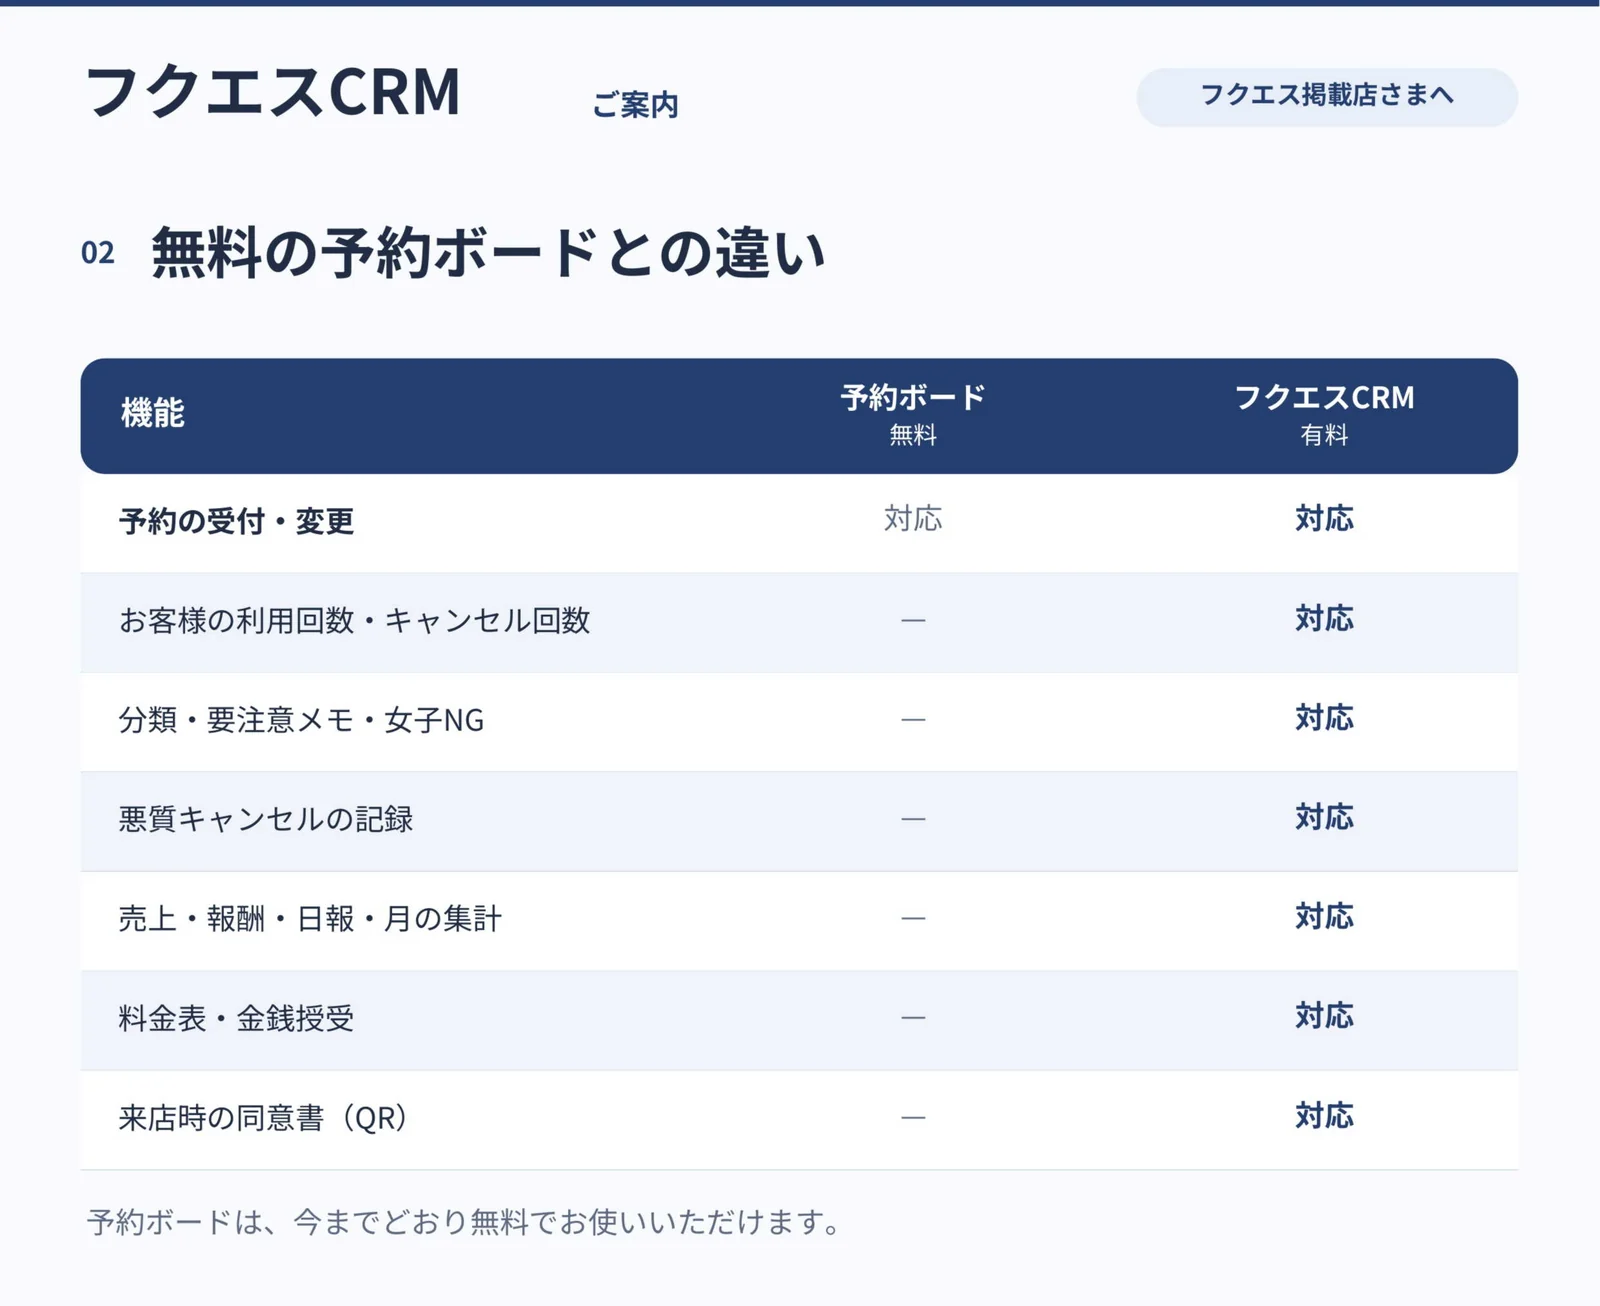
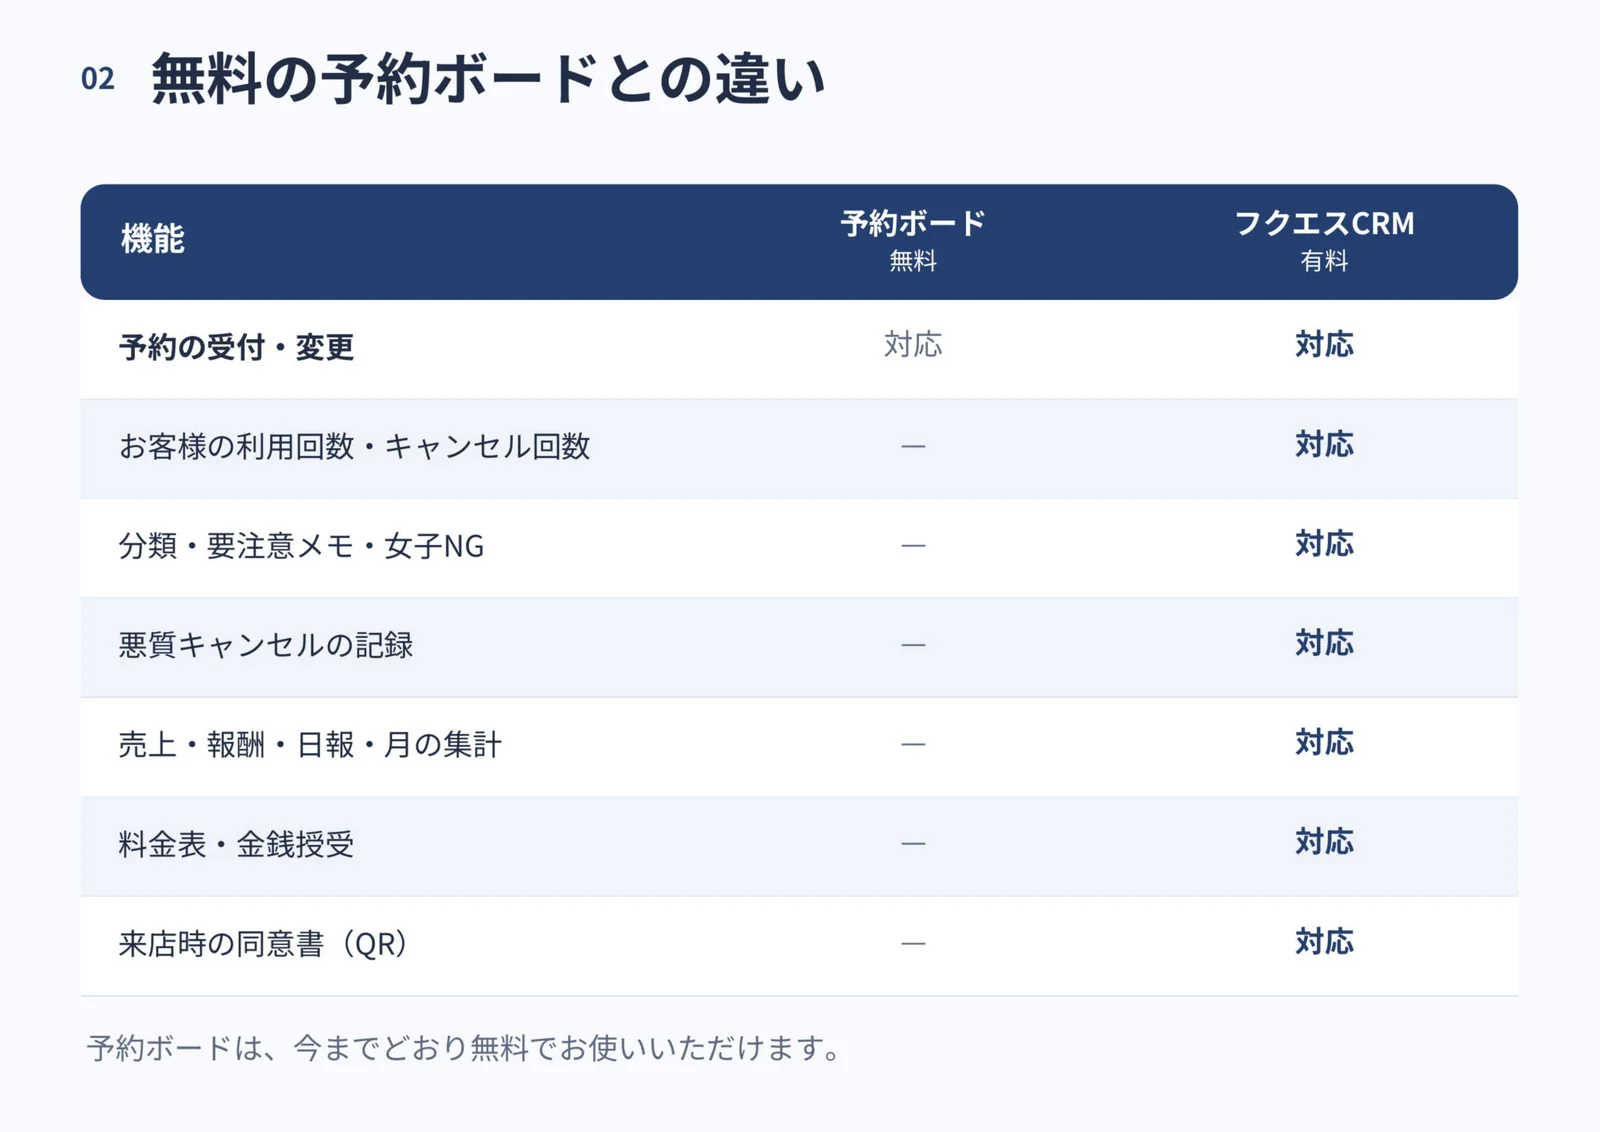
第1169便: ①フクエスCRM のご案内の2枚目（無料の予約ボードとの違い）の上の見出し（フクエスCRM ご案内／フクエス掲載店さまへ）を切り取る（1枚目と重なるため・1600×1132）。②マイページの「セラピストページ連携」の見出しの横に「作り方」のリンクを足す（カッキーさん）。行き先は新しいページ /mypage/cast-guide（カッキーさん作成の画像「セラピストページの作り方」1枚＋マイページへ戻る・お問い合わせ）。別タブで開く。コネックエフのホームの同じ部品には出さない（guideHref を渡した画面だけ）。読み取りは増えない。
Claude-Session: https://claude.ai/code/session_01JbBLaGjzf4Pwht8GgPcRnq

diff --git a/src/app/mypage/cast-guide/page.tsx b/src/app/mypage/cast-guide/page.tsx
@@ -1,0 +1,45 @@
+// セラピストページの作り方（第1169便・2026-10-04・カッキーさんの指示）。
+// ★ マイページの「セラピストページ連携」（今すぐの画面・CastLinkProgress）の見出しの横の「作り方」から開く説明ページ。
+// ★ ここはログインだけで開ける（中身は全店同じ）。読み取りは無い。fukuX・コネックエフのご案内と同じ作り＝画像1枚＋下にボタン。
+// ★ 本文はカッキーさん作成の画像1枚（public/mypage/cast-guide/cast-guide.webp・1600×2262）。差し替えるときはこのファイルを置き換えるだけ。
+//   ★ 画像の中の文章は alt に要点を書く（画面読み上げのため）。★ 画像の中身を変えたら alt も直すこと（食い違わせない）。
+//   ★ 画像の「お問い合わせ」は押せないので、下に押せるボタンでも置く（マイページの「運営事務局」）。
+
+import type { Metadata } from 'next';
+import Link from 'next/link';
+
+export const metadata: Metadata = { title: 'セラピストページの作り方｜フクエス マイページ' };
+
+const GUIDE_ALT =
+  'セラピストページの作り方（店舗オーナー様へ）。QRを見せるだけ。あとはセラピストさんのスマホで完成します。お店がQRを案内 → 本人が登録。4つのステップで、すぐに使えます。' +
+  '01 お店がやること（STEP 1・2）：1、マイページ「セラピスト」で「QR」を押す。新しく登録した直後は、自動でQRが出ます。2、セラピストさんのスマホで読み取ってもらう。その場にいないときは「LINEで送る」でもOK。' +
+  '02 セラピストさんがやること（STEP 3・4）：3、自分のメールアドレスを入れる。「招待メールを受け取る」を押すと、メールが届きます。4、メールを開いて、パスワードを決めたら完成。すぐにセラピストページが使えます。' +
+  'うまくいかないときは：QRは24時間・1回だけ使えます。切れたら「リンクを作り直す」を押してください。メールが届かないときは、迷惑メールのフォルダも確認してください。' +
+  'ご不明な点は、マイページの「お問い合わせ」からどうぞ。';
+
+export default function CastGuidePage() {
+  return (
+    <main className="min-h-screen bg-slate-50 py-6 sm:py-10 px-4">
+      <div className="max-w-3xl mx-auto">
+        {/* eslint-disable-next-line @next/next/no-img-element */}
+        <img
+          src="/mypage/cast-guide/cast-guide.webp"
+          alt={GUIDE_ALT}
+          width={1600}
+          height={2262}
+          className="block w-full h-auto border border-slate-200 mb-6"
+        />
+
+        {/* ★ PC は横並び・スマホは縦並び */}
+        <div className="flex flex-col sm:flex-row gap-3 pb-6">
+          <Link href="/mypage" className="flex-1 text-center py-4 bg-gradient-to-r from-[#b83a6f] to-[#d6558b] text-white text-[17px] font-black shadow-md hover:opacity-95">
+            マイページへ戻る
+          </Link>
+          <Link href="/mypage?tab=support" className="sm:w-56 flex items-center justify-center py-4 border-2 border-[#c8477d] bg-white text-[15px] font-bold text-[#b83a6f] hover:bg-pink-50">
+            お問い合わせ
+          </Link>
+        </div>
+      </div>
+    </main>
+  );
+}

diff --git a/src/app/mypage/crm/CrmIntro.tsx b/src/app/mypage/crm/CrmIntro.tsx
@@ -11,7 +11,8 @@ import { CRM_INTRO } from '@/lib/crmIntro';
 //   ★ 画像は public/mypage/crm/crm-intro.webp（1600×2262）。差し替えるときはこのファイルを置き換えるだけ。
 //     （.webp は proxy.ts の matcher から外れているので、fukuescrm.com でもそのまま出る）
 //   ★ 画像の中の文章は alt に要点を書く（画面読み上げのため）。★ 画像の中身を変えたら alt も直すこと（食い違わせない）。
-//   ★ 第1168便（カッキーさん）: 「無料の予約ボードとの違い」の画像を2枚目に足した（public/mypage/crm/crm-compare.webp・1600×1306）。
+//   ★ 第1168便（カッキーさん）: 「無料の予約ボードとの違い」の画像を2枚目に足した（public/mypage/crm/crm-compare.webp）。
+//   ★ 第1169便（カッキーさん）: 2枚目の上の見出し（フクエスCRM ご案内／フクエス掲載店さまへ）は1枚目と重なるので切り取った（1600×1132）。
 //   ★ お申し込みの一文は画像の下に文字で置く。
 //   ★ lib/crmIntro.ts はお申し込みの一文だけ使っている（ほかの項目は第1165便の文字組みのもの。画像に戻すときのために残してある）。
 //   ★ ボタンは画像にしない。3つ（運営に申し込む＝第1163便の行き先のまま／使い方／マイページへ戻る）。
@@ -29,7 +30,7 @@ const INTRO_ALT =
 
 // ★ 第1168便: 2枚目（無料の予約ボードとの違い）。★ 画像の中身を変えたら alt も直すこと
 const COMPARE_ALT =
-  'フクエスCRM ご案内（フクエス掲載店さまへ）。無料の予約ボードとの違い。' +
+  '無料の予約ボードとの違い。' +
   '予約の受付・変更：予約ボード（無料）は対応、フクエスCRM（有料）も対応。' +
   'お客様の利用回数・キャンセル回数、分類・要注意メモ・女子NG、悪質キャンセルの記録、売上・報酬・日報・月の集計、料金表・金銭授受、来店時の同意書（QR）：フクエスCRM（有料）だけ対応。' +
   '予約ボードは、今までどおり無料でお使いいただけます。';
@@ -52,7 +53,7 @@ export function CrmIntro({ salonName }: { salonName?: string; publicPage?: boole
         src="/mypage/crm/crm-compare.webp"
         alt={COMPARE_ALT}
         width={1600}
-        height={1306}
+        height={1132}
         loading="lazy"
         className="mt-4 block w-full h-auto border border-slate-200"
       />

diff --git a/src/app/components/CastLinkProgress.tsx b/src/app/components/CastLinkProgress.tsx
@@ -33,11 +33,13 @@ const TONES = {
   },
 } as const;
 
-export function CastLinkProgress({ salonId, editHref, tone = 'indigo', onToast }: {
+export function CastLinkProgress({ salonId, editHref, tone = 'indigo', onToast, guideHref }: {
   salonId: number | null;
   /** 「招待する／確認する」の行き先（そのセラピストの編集ページ） */
   editHref: (therapistId: string) => string;
   tone?: keyof typeof TONES;
+  /** ★ 第1169便（カッキーさん）: 見出しの横に出す「作り方」の行き先（マイページだけ渡す＝/mypage/cast-guide）。無ければ出さない */
+  guideHref?: string;
   onToast?: (m: string) => void;
 }) {
   const T = TONES[tone];
@@ -73,7 +75,14 @@ export function CastLinkProgress({ salonId, editHref, tone = 'indigo', onToast }
   return (
     <div className={T.card}>
       <div className="flex items-end justify-between gap-3 flex-wrap">
-        <h3 className="text-[16px] font-bold text-slate-700">セラピストページ連携</h3>
+        <div className="flex items-baseline gap-3">
+          <h3 className="text-[16px] font-bold text-slate-700">セラピストページ連携</h3>
+          {guideHref && (
+            <Link href={guideHref} target="_blank" rel="noopener noreferrer" className={`text-[13px] font-bold underline underline-offset-2 hover:opacity-80 ${T.num}`}>
+              作り方
+            </Link>
+          )}
+        </div>
         <p className="text-[14px] text-slate-500 tabular-nums">
           <b className={`text-[22px] font-black ${T.num}`}>{done.length}</b>
           <span className="mx-1">/</span>{active.length}名 連携済み（{pct}%）

diff --git a/src/app/mypage/page.tsx b/src/app/mypage/page.tsx
@@ -4565,7 +4565,7 @@ export default function MyPage() {
             ★ コネックエフに切り替えた店はコネックエフのホームに出るので、ここでは出さない */}
         {salon && !conecfOn && (
           <div className={activeTab === 'available' ? '' : 'hidden'}>
-            <CastLinkProgress salonId={Number(salon.id)} editHref={(id) => `/mypage/therapist/${id}`} tone="pink" onToast={showToast} />
+            <CastLinkProgress salonId={Number(salon.id)} editHref={(id) => `/mypage/therapist/${id}`} tone="pink" onToast={showToast} guideHref="/mypage/cast-guide" />
           </div>
         )}
 
